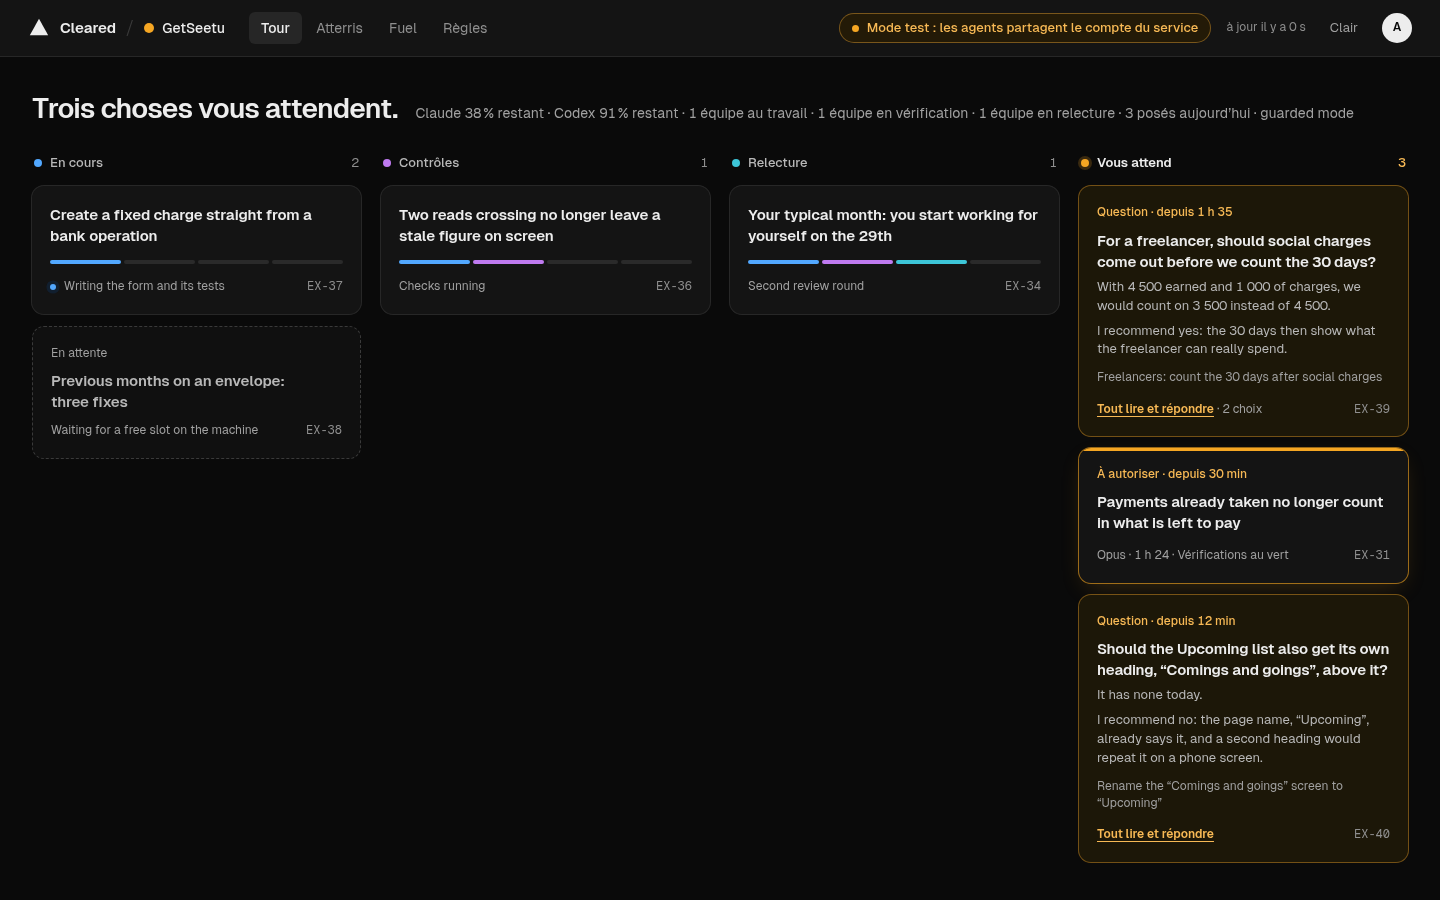
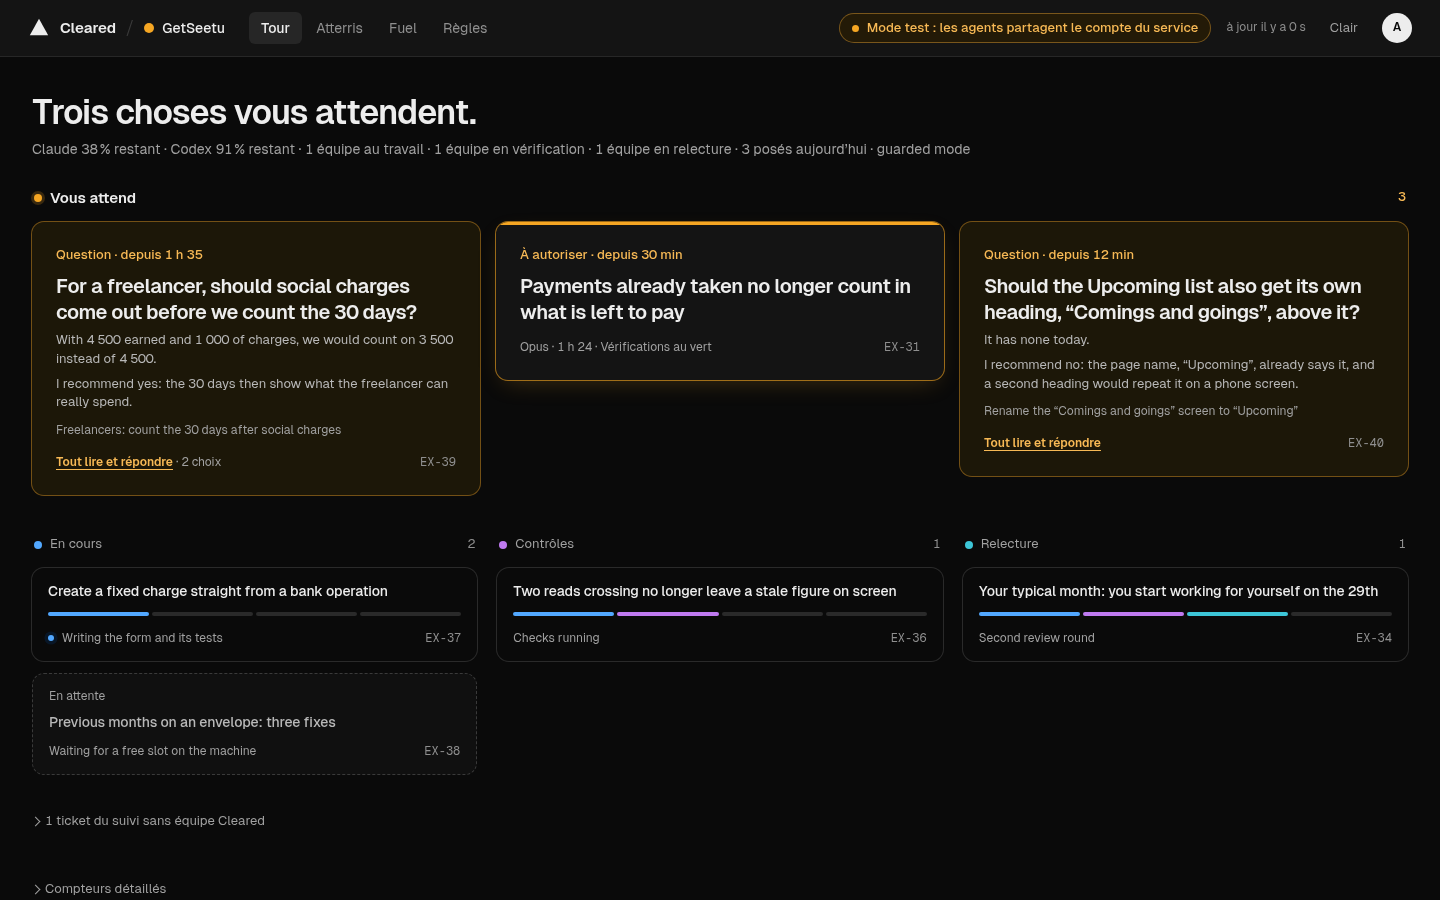
feat(app): variant A layout, small porthole with a large mode
What waits for the human sits across the full width in large cards; the
other stages are three quieter columns. The porthole opens small (440 px)
beside the board, question first; a button makes it large (over the board,
question and facts on the left, the before / after pair large on the right).

diff --git a/app/public/style.css b/app/public/style.css
@@ -37,8 +37,7 @@
   --conn-ink: #0A0A0A; --tab-fill: rgba(255,255,255,.08); --device-before: 0 0 0 1px rgba(255,255,255,.22);
   color-scheme: dark;
 }
-@media (min-width: 1280px) { :root { --bar-h: 56px; --ph-w: 560px; } }
-@media (min-width: 1440px) { :root { --ph-w: 640px; } }
+@media (min-width: 1280px) { :root { --bar-h: 56px; --ph-w: 440px; } }
 * { box-sizing: border-box; }
 body { margin: 0; background: var(--canvas); color: var(--text); font: 400 14px/1.45 var(--sans); font-variant-numeric: tabular-nums; -webkit-font-smoothing: antialiased; scrollbar-color: var(--dashed) transparent; }
 ::selection { background: var(--select); }
@@ -78,11 +77,11 @@ a { color: var(--link); } button { font: inherit; color: inherit; }
 
 /* welcome sentence, then one grey line: fuel left and what is under way */
 .hello { display: flex; flex-wrap: wrap; align-items: baseline; gap: 6px 18px; padding: 36px 32px 0; }
-.hello-title { font-size: 28px; font-weight: 600; letter-spacing: -.03em; line-height: 1.2; text-wrap: balance; }
+.hello-title { font-size: 34px; font-weight: 600; letter-spacing: -.03em; line-height: 1.2; text-wrap: balance; }
 .subline { color: var(--text-muted); font-size: 14px; text-wrap: balance; }
 
 /* tower */
-.tower { display: grid; grid-template-columns: repeat(4, minmax(0, 1fr)); gap: 28px 20px; align-items: start; padding: 28px 32px 0; }
+.tower { display: grid; grid-template-columns: repeat(3, minmax(0, 1fr)); gap: 40px 20px; align-items: start; padding: 28px 32px 0; }
 .col { display: flex; flex-direction: column; gap: 12px; min-width: 0; }
 .col-head { display: flex; align-items: center; gap: 8px; padding: 0 2px 2px; }
 .col-head i { width: 8px; height: 8px; border-radius: 50%; flex: none; }
@@ -110,6 +109,16 @@ a { color: var(--link); } button { font: inherit; color: inherit; }
 .chip.q { background: transparent; color: var(--awaiting-text); box-shadow: 0 0 0 1px rgba(171,87,10,.4); }
 .chip.wait { background: var(--awaiting-pill); color: var(--awaiting-text); box-shadow: 0 0 0 1px rgba(245,166,35,.45); }
 .chip.stage { background: transparent; color: var(--text-secondary); box-shadow: var(--e-outline); }
+.col[data-col="awaiting"] { order: -1; grid-column: 1 / -1; }
+.col[data-col="awaiting"] .cards { display: grid; grid-template-columns: repeat(3, minmax(0, 1fr)); gap: 16px; align-items: start; }
+.col[data-col="awaiting"] .card > button { padding: 24px; }
+.col[data-col="awaiting"] .card h3 { font-size: 20px; letter-spacing: -.025em; line-height: 1.3; }
+.col[data-col="awaiting"] .wait-line { font-size: 13px; }
+.col[data-col="awaiting"] .col-head h2 { font-size: 15px; }
+.col:not([data-col="awaiting"]) .card:not(.queued) { background: transparent; box-shadow: 0 0 0 1px var(--hairline); }
+.col:not([data-col="awaiting"]) .card > button { padding: 14px 16px; }
+.col:not([data-col="awaiting"]) .card h3 { font-size: 14px; font-weight: 500; margin-bottom: 10px; }
+.col:not([data-col="awaiting"]) .col-head h2 { color: var(--text-muted); font-weight: 400; }
 .card.question { background: var(--awaiting-surface); box-shadow: 0 0 0 1px rgba(245,166,35,.45); } .card.question h3 { margin-bottom: 10px; }
 .card.queued { background: var(--surface-muted); box-shadow: none; border: 1px dashed var(--dashed); } .card.queued h3 { color: var(--text-secondary); margin-bottom: 10px; }
 .card.tracker { background: var(--surface-muted); box-shadow: 0 0 0 1px var(--hairline); } .card.tracker h3 { color: var(--text-secondary); margin-bottom: 10px; }
@@ -148,17 +157,19 @@ a { color: var(--link); } button { font: inherit; color: inherit; }
 
 /* porthole: right panel on a computer, a page on a phone */
 .porthole { position: fixed; top: var(--bar-h); right: 0; bottom: 0; width: min(var(--ph-w), 100%); background: var(--surface); box-shadow: -1px 0 0 var(--outline); z-index: 20; display: flex; flex-direction: column; }
-.ph-head { display: flex; align-items: center; gap: 10px; padding: 20px 28px 0; }
+.ph-head { display: flex; align-items: center; gap: 10px; padding: 20px 24px 0; }
 .back { all: unset; box-sizing: border-box; width: 32px; height: 32px; border-radius: 8px; display: inline-flex; align-items: center; justify-content: center; box-shadow: 0 0 0 1px rgba(0,0,0,.1); color: var(--text-secondary); cursor: pointer; }
 :root[data-theme="dark"] .back { box-shadow: 0 0 0 1px rgba(255,255,255,.2); }
 .back:hover { color: var(--text); } .back:focus-visible { outline: 2px solid var(--link); outline-offset: 2px; }
 .back .i-back { display: none; }
 .ph-head .chip { margin-left: auto; }
-.ph-body { flex: 1 1 auto; overflow-y: auto; padding: 16px 28px 24px; display: flex; flex-direction: column; gap: 22px; }
-.ph-body h2 { font-size: 24px; font-weight: 600; letter-spacing: -.03em; line-height: 1.2; overflow-wrap: anywhere; text-wrap: balance; } .amber-bar { height: 3px; width: 56px; border-radius: 2px; background: var(--awaiting); margin-bottom: 14px; }
+.back.expand .i-shrink { display: none; } .back.expand[aria-pressed="true"] .i-shrink { display: block; } .back.expand[aria-pressed="true"] .i-grow { display: none; }
+.ph-body { flex: 1 1 auto; overflow-y: auto; padding: 16px 24px 24px; display: flex; flex-direction: column; gap: 22px; }
+.ph-body > * { order: 2; } .ph-body > .ph-ask, .ph-body > .ph-question { order: 0; } .ph-body > :first-child { order: 1; }
+.ph-body h2 { color: var(--text-secondary); font-size: 20px; font-weight: 500; letter-spacing: -.02em; line-height: 1.2; overflow-wrap: anywhere; text-wrap: balance; } .amber-bar { height: 3px; width: 56px; border-radius: 2px; background: var(--awaiting); margin-bottom: 14px; }
 .ph-since { margin-top: 8px; font-size: 13px; color: var(--text-muted); }
-.ph-ask { padding: 16px 18px; border-radius: 10px; background: var(--canvas); box-shadow: var(--e-outline); }
-.ph-ask .ask-q { font-size: 16px; font-weight: 600; line-height: 1.4; margin-bottom: 6px; text-wrap: pretty; } .ph-ask .ask-a { color: var(--text-secondary); line-height: 1.5; text-wrap: pretty; }
+.ph-ask { padding: 20px 22px; border-radius: 10px; background: var(--awaiting-surface); box-shadow: 0 0 0 1px rgba(245,166,35,.45); }
+.ph-ask .ask-q { font-size: 20px; letter-spacing: -.02em; font-weight: 600; line-height: 1.4; margin-bottom: 6px; text-wrap: pretty; } .ph-ask .ask-a { color: var(--text-secondary); line-height: 1.5; text-wrap: pretty; }
 .ph-question { padding: 16px 18px; border-radius: 10px; background: var(--awaiting-surface); box-shadow: 0 0 0 1px rgba(245,166,35,.45); }
 .ph-question .q + .q { margin-top: 16px; padding-top: 16px; box-shadow: 0 -1px 0 var(--hairline); }
 .ph-question .q-n { display: block; font-size: 12px; color: var(--text-muted); margin-bottom: 4px; }
@@ -189,7 +200,7 @@ a { color: var(--link); } button { font: inherit; color: inherit; }
 .sec-title { font-size: 14px; font-weight: 600; margin-bottom: 10px; }
 .facts { display: grid; grid-template-columns: 110px minmax(0, 1fr); gap: 8px 12px; margin: 0; font-size: 13px; color: var(--text-secondary); }
 .facts dt { color: var(--text-faint); } .facts dd { margin: 0; overflow-wrap: anywhere; }
-.facts a { text-decoration: none; display: inline; min-height: 0; } .facts a:hover { text-decoration: underline; } .facts .tag { margin-left: 6px; font-size: 12px; padding: 1px 8px; border-radius: 999px; box-shadow: var(--e-outline); color: var(--text-muted); }
+.ph-body .facts a { text-decoration: none; display: inline; min-height: 0; } .facts a:hover { text-decoration: underline; } .facts .tag { margin-left: 6px; font-size: 12px; padding: 1px 8px; border-radius: 999px; box-shadow: var(--e-outline); color: var(--text-muted); }
 .box-card { padding: 14px 16px; border-radius: 10px; background: var(--surface); box-shadow: var(--e-outline); }
 .example p + p { margin-top: 6px; } .tests { list-style: none; margin: 10px 0 0; padding: 0; } .tests li { padding: 6px 0; box-shadow: 0 -1px 0 var(--hairline); font-size: 13px; }
 .no-capture { font-size: 13px; color: var(--text-secondary); padding: 12px 14px; border-radius: 10px; border: 1px dashed var(--dashed); }
@@ -205,7 +216,7 @@ a { color: var(--link); } button { font: inherit; color: inherit; }
 .timeline li { position: relative; padding-left: 18px; } .timeline li::before { content: ""; position: absolute; left: -4px; top: 6px; width: 9px; height: 9px; border-radius: 50%; background: var(--dot, var(--stage-progress)); }
 .timeline time { font-size: 12px; color: var(--text-faint); margin-right: 6px; } .timeline details { display: inline; } .timeline summary { display: inline-flex; align-items: center; min-height: 44px; cursor: pointer; } .timeline pre { margin: 6px 0 0; font: 12px/1.4 var(--mono); white-space: pre-wrap; overflow-wrap: anywhere; color: var(--text-muted); }
 .ph-body a { display: inline-flex; align-items: center; min-height: 44px; }
-.ph-actions { flex: none; display: flex; flex-direction: column; gap: 10px; max-height: 60vh; overflow-y: auto; padding: 16px 28px 22px; background: var(--surface); box-shadow: 0 -1px 0 var(--outline); }
+.ph-actions { flex: none; display: flex; flex-direction: column; gap: 10px; max-height: 60vh; overflow-y: auto; padding: 16px 24px 22px; background: var(--surface); box-shadow: 0 -1px 0 var(--outline); }
 .zoom { position: fixed; inset: 0; background: var(--canvas); z-index: 40; display: grid; place-items: center; padding: 16px; } .zoom img { max-width: 100%; max-height: 85vh; border-radius: 12px; box-shadow: var(--e-outline); } .zoom button { position: absolute; top: 8px; right: 8px; }
 [hidden] { display: none !important; }
 
@@ -217,18 +228,19 @@ a { color: var(--link); } button { font: inherit; color: inherit; }
 @media (min-width: 1280px) {
   body.has-ph .page { margin-right: var(--ph-w); }
   body.has-ph .tower { grid-template-columns: repeat(2, minmax(0, 1fr)); }
-  body.has-ph .col[data-col="awaiting"] { order: -1; }
+  body.has-ph .col[data-col="awaiting"] .cards { grid-template-columns: 1fr; }
+  body.ph-big .page { margin-right: 0; }
   .bar { flex-wrap: nowrap; padding: 0 28px; }
 }
-@media (min-width: 1700px) { body.has-ph .tower { grid-template-columns: repeat(3, minmax(0, 1fr)); } }
-@media (min-width: 2100px) { body.has-ph .tower { grid-template-columns: repeat(4, minmax(0, 1fr)); } }
+@media (min-width: 1500px) { body.has-ph .tower { grid-template-columns: repeat(3, minmax(0, 1fr)); } body.has-ph .col[data-col="awaiting"] .cards { grid-template-columns: repeat(2, minmax(0, 1fr)); } }
+@media (min-width: 1500px) { body.ph-big .tower { grid-template-columns: repeat(3, minmax(0, 1fr)); } body.ph-big .col[data-col="awaiting"] .cards { grid-template-columns: repeat(3, minmax(0, 1fr)); } }
 /* tablet 768 to 1279: two columns, the porthole over the board. phone under 768: one column, awaiting first. */
-@media (max-width: 1279px) { .tower { grid-template-columns: repeat(2, minmax(0, 1fr)); } .col[data-col="awaiting"] { order: -1; } .landed-rows { grid-template-columns: 80px 1fr 170px 170px; } }
+@media (max-width: 1279px) { .tower { grid-template-columns: repeat(2, minmax(0, 1fr)); } .col[data-col="awaiting"] .cards { grid-template-columns: repeat(2, minmax(0, 1fr)); } .landed-rows { grid-template-columns: 80px 1fr 170px 170px; } }
 @media (max-width: 1023px) { .porthole { width: 100%; } }
 @media (max-width: 1279px) { .porthole { top: 0; box-shadow: -1px 0 0 var(--outline), -24px 0 48px -24px rgba(0,0,0,.18); } }
 @media (max-width: 767px) {
   .bar { padding: 6px 16px; gap: 4px 12px; } .hello { padding: 28px 16px 0; } .hello-title { font-size: 24px; } .tower { grid-template-columns: 1fr; padding: 24px 16px 0; gap: 24px; }
-  .col[data-col="awaiting"] { order: -1; } .landed { margin: 32px 16px; } .landed-rows { grid-template-columns: 56px 1fr; } .landed-rows .model, .landed-rows .out { grid-column: 2; padding: 0 12px 0 0; box-shadow: none; } .landed-rows .time, .landed-rows .what { box-shadow: none !important; padding-bottom: 0; }
+  .col[data-col="awaiting"] .cards { grid-template-columns: 1fr; } .col[data-col="awaiting"] .card h3 { font-size: 17px; } .landed { margin: 32px 16px; } .landed-rows { grid-template-columns: 56px 1fr; } .landed-rows .model, .landed-rows .out { grid-column: 2; padding: 0 12px 0 0; box-shadow: none; } .landed-rows .time, .landed-rows .what { box-shadow: none !important; padding-bottom: 0; }
   .landed-rows .out { padding-bottom: 14px; box-shadow: 0 1px 0 var(--hairline); } .landed-rows .time { padding-left: 16px; }
   .fold { margin: 20px 16px 0; } .fold > .cards { grid-template-columns: 1fr; }
   .stats .stat { flex: 1 1 40%; min-width: 0; padding: 14px 16px; } .stats .stat.fuel { flex-basis: 100%; box-shadow: inset 0 1px 0 var(--hairline); } .stat + .stat { box-shadow: none; } .stats { width: 100%; }
@@ -285,3 +297,16 @@ a { color: var(--link); } button { font: inherit; color: inherit; }
   .ph-actions .act-text { min-height: 48px; }
 }
 .pr-row { display: flex; align-items: center; gap: 10px; flex-wrap: wrap; }
+
+/* the large porthole: over the board, the question and the facts on the left, the before / after pair large on the right */
+@media (min-width: 768px) {
+  .porthole.big { width: min(1120px, calc(100vw - 72px)); box-shadow: -1px 0 0 var(--outline), -32px 0 64px -24px rgba(0,0,0,.28); }
+  .porthole.big .ph-head { padding: 24px 40px 0; } .porthole.big .ph-actions { padding: 16px 40px 22px; }
+  .porthole.big .ph-body { display: grid; grid-template-columns: minmax(300px, 4fr) minmax(0, 7fr); gap: 24px 40px; align-content: start; padding: 20px 40px 32px; }
+  .porthole.big .ph-body > * { grid-column: 1; }
+  .porthole.big .ph-body > .shots, .porthole.big .ph-body > .no-capture { grid-column: 2; grid-row: 1 / span 4; }
+  .porthole.big .ph-body > .more { grid-column: 1 / -1; }
+  .porthole.big .device img { height: clamp(300px, 50vh, 560px); } .porthole.big .device.blank span { height: clamp(300px, 50vh, 560px); }
+  .porthole.big .shots[data-device="desktop"] .device img { height: auto; }
+}
+@media (max-width: 767px) { .back.expand { display: none; } }

diff --git a/app/public/app.js b/app/public/app.js
@@ -276,11 +276,19 @@ async function openTicket(id) {
 }
 function closeTicket() {
   actions.mount(null);
-  $('porthole').hidden = true; document.body.classList.remove('has-ph'); state.open = null; setCovered(false);
+  $('porthole').hidden = true; document.body.classList.remove('has-ph'); setBig(false); state.open = null; setCovered(false);
   const back = state.opener?.isConnected ? state.opener : document.querySelector('.card button');
   back?.focus(); state.opener = null;
 }
 $('ph-close').addEventListener('click', closeTicket);
+// The porthole opens small, beside the board; this button makes it large (the board stays behind it) and back.
+function setBig(on) {
+  $('porthole').classList.toggle('big', on);
+  document.body.classList.toggle('ph-big', on);
+  $('ph-expand').setAttribute('aria-pressed', String(on));
+  $('ph-expand').setAttribute('aria-label', t(on ? 'app_ph_shrink' : 'app_ph_expand'));
+}
+$('ph-expand').addEventListener('click', () => setBig(!$('porthole').classList.contains('big')));
 // The address a notification opens, /#ticket=EX-12: that ticket's porthole. The part after # never reaches the server.
 function openFromAddress() {
   const match = /^#ticket=([A-Za-z0-9._-]{1,40})$/.exec(location.hash);
@@ -497,6 +505,7 @@ function live() {
   for (const n of document.querySelectorAll('[data-i]')) n.textContent = t(n.dataset.i);
   $('zoom').setAttribute('aria-label', t('app_ph_close_zoom'));
   $('ph-close').setAttribute('aria-label', t('app_back'));
+  $('ph-expand').setAttribute('aria-label', t('app_ph_expand'));
   syncThemeButton();
   state.last = s.generatedAt;
   render(s);

diff --git a/app/public/index.html b/app/public/index.html
@@ -69,6 +69,7 @@
   <header class="ph-head">
     <button id="ph-close" class="back" type="button" aria-label="Back to the tower"><svg class="i-back" width="18" height="18" viewBox="0 0 24 24" fill="none" stroke="currentColor" stroke-width="2" stroke-linecap="round" stroke-linejoin="round" aria-hidden="true"><path d="M15 18l-6-6 6-6"/></svg><svg class="i-x" width="16" height="16" viewBox="0 0 24 24" fill="none" stroke="currentColor" stroke-width="2" stroke-linecap="round" stroke-linejoin="round" aria-hidden="true"><path d="M18 6L6 18M6 6l12 12"/></svg></button>
     <span id="ph-id" class="code faint"></span>
+    <button id="ph-expand" class="back expand" type="button" aria-pressed="false" aria-label="Enlarge the porthole"><svg class="i-grow" width="16" height="16" viewBox="0 0 24 24" fill="none" stroke="currentColor" stroke-width="2" stroke-linecap="round" stroke-linejoin="round" aria-hidden="true"><path d="M15 3h6v6M9 21H3v-6M21 3l-7 7M3 21l7-7"/></svg><svg class="i-shrink" width="16" height="16" viewBox="0 0 24 24" fill="none" stroke="currentColor" stroke-width="2" stroke-linecap="round" stroke-linejoin="round" aria-hidden="true"><path d="M4 14h6v6M20 10h-6V4M14 10l7-7M3 21l7-7"/></svg></button>
     <span id="ph-chip" class="chip"></span>
   </header>
   <div id="ph-body" class="ph-body"></div>

diff --git a/app/DESIGN.md b/app/DESIGN.md
@@ -132,9 +132,9 @@ The detailed counters (in flight, landed today, first-time clean, median Todo to
 White outlined table at the bottom of the tower: time, what shipped (plain title), model, outcome with a small dot ("Clean first time" and "One review round" in `success`, "Rolled back 11:49" in `danger`). A "View all" link on the right of its header.
 
 ### Porthole
-Computer (1280 and above): right panel under the header (560 px, 640 from 1440), the board making room and showing two columns with what waits first. Tablet (1024 to 1279): the panel covers the board. Below 1024 px and on a phone: full page with a back button, the ticket id and the status chip in a white header.
+Computer (1280 and above): a **small porthole** (440 px) opens on the right under the header, the board making room for it. A button beside the ticket id makes it **large** (up to 1120 px, over the board): the question and the facts on the left, the before / after pair large on the right; the same button brings it back. Closing resets it to small. Tablet (1024 to 1279): the panel covers the board. Below 1024 px and on a phone: full page with a back button, the ticket id and the status chip in a white header.
 Order, always:
-1. The ticket title, large (`title`), under a 3 px × 56 px flat amber bar when it waits for the human, and "Waiting since 16:05 (1 h 35)".
+1. **The question put to the human first**, on `awaiting-surface` (see 2). Under it, the ticket title (`title`, 20 px, `text-secondary`) under a 3 px × 56 px flat amber bar when it waits for the human, and "Waiting since 16:05 (1 h 35)".
 2. **The question put to the human, in bold, in one sentence** ("Allow this change to go live?"), then **what changes for the user in one or two sentences**, taken from the team's report (never an internal agent note; the pull request number is dropped). With no report: "No summary provided by the team". For a question ticket, the whole question in bold on `awaiting-surface`, the team's recommendation below a highlight hairline.
 3. **One single large before / after pair**, side by side in device frames (radius `device`, 6 px white bezel, after with `elevation.device-after`). A Phone / Desktop switch above it (it changes the frame only), one pill per screen below it when there are several; the other captures are one click away, never a row of thumbnails. A click enlarges a capture. A ticket with no screen shows one concrete before / after example and its tests instead.
 4. A small block of facts: who wrote and who reviewed, the size of the change with the link to the pull request (and "draft"), the checks, the time worked, the share of the week's usage when measured.
@@ -144,8 +144,8 @@ Order, always:
 
 ## 5. Layout
 
-- Desktop: header, welcome sentence and grey line, four-column board (two columns while the porthole is open), the folded lines, Landed today. Side margins 32 px, column gap 20 px, card gap 12 px. Room to breathe: nothing touches.
-- Cards awaiting the human are always first in their column.
+- Desktop: header, welcome sentence and grey line, then **what waits for the human across the full width** in large cards (three across, two with the small porthole open, one on a phone), and below it the other stages in three quieter columns (outlined, transparent, smaller titles). Then the folded lines and Landed today. Side margins 32 px, column gap 20 px, card gap 12 px. Room to breathe: nothing touches.
+- Cards awaiting the human are always first, and in their own full-width row above the other stages.
 - Phone: one column. Awaiting cards first, then the rest by stage. The porthole is a page of its own with the buttons fixed at the bottom; the before / after pair stacks below 360 px; nothing overflows.
 - An empty column says in one `text-faint` sentence what to do to fill it. No illustrations, no decoration.
 
